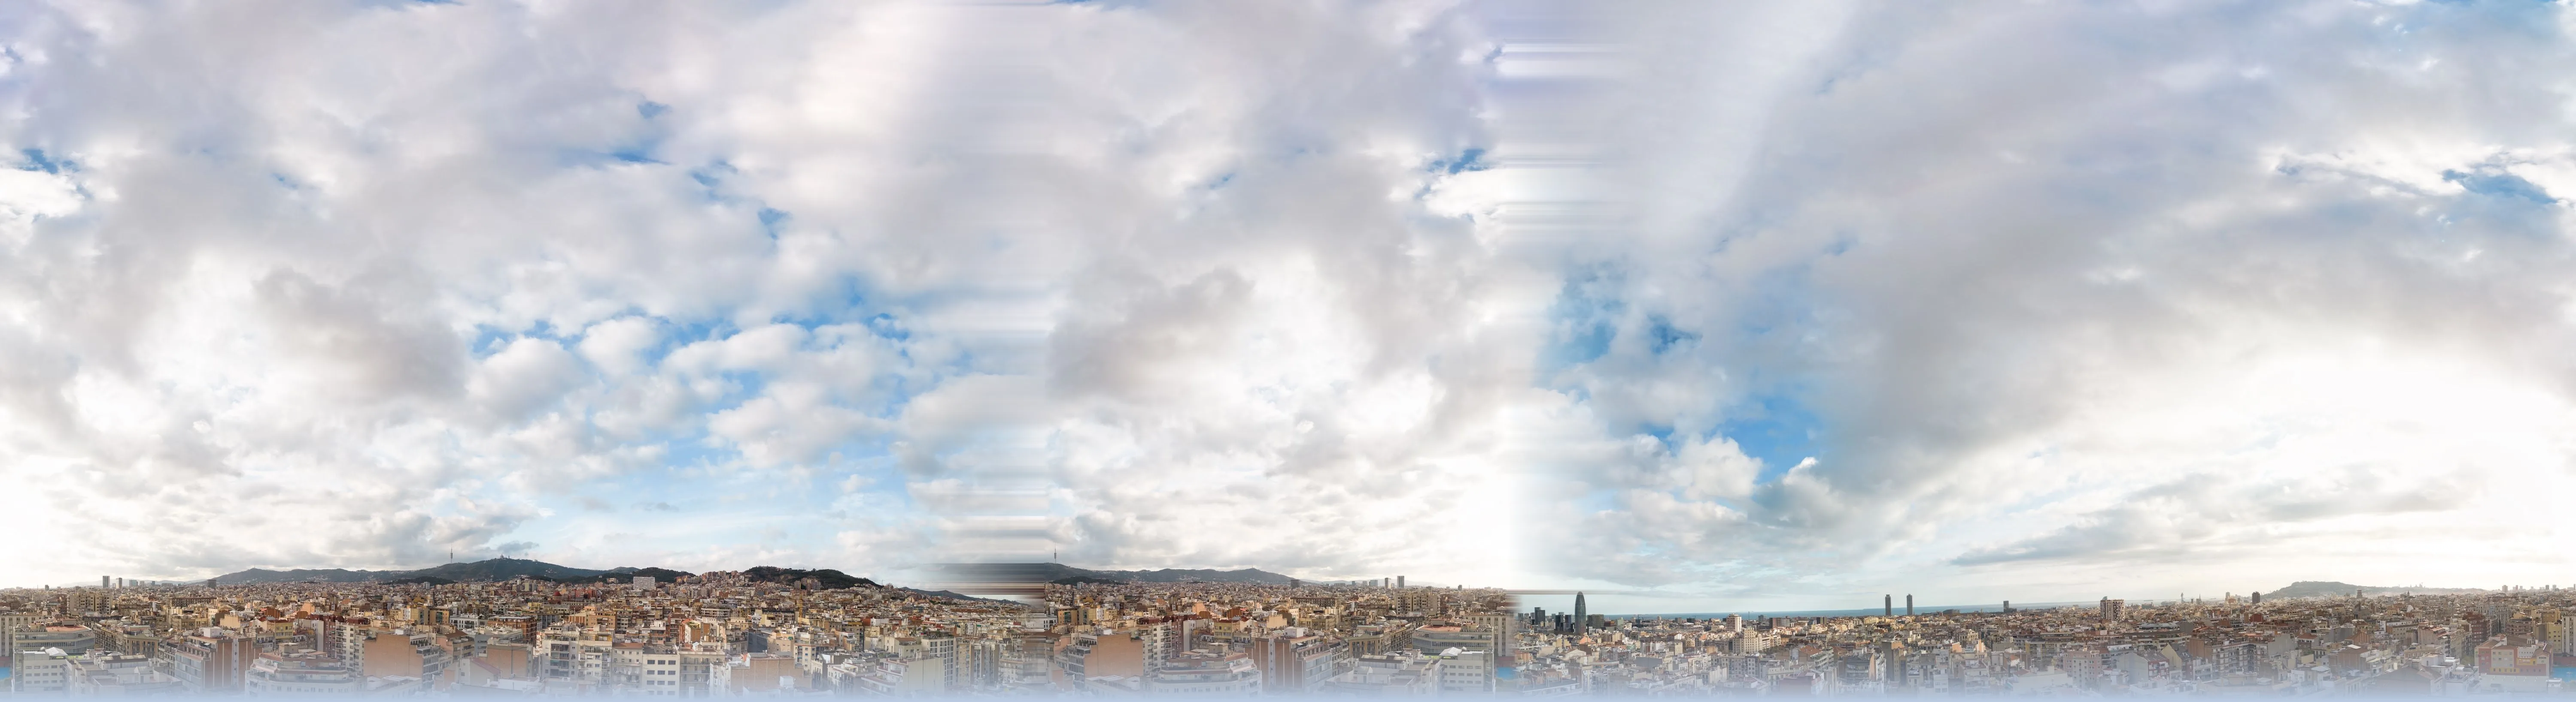
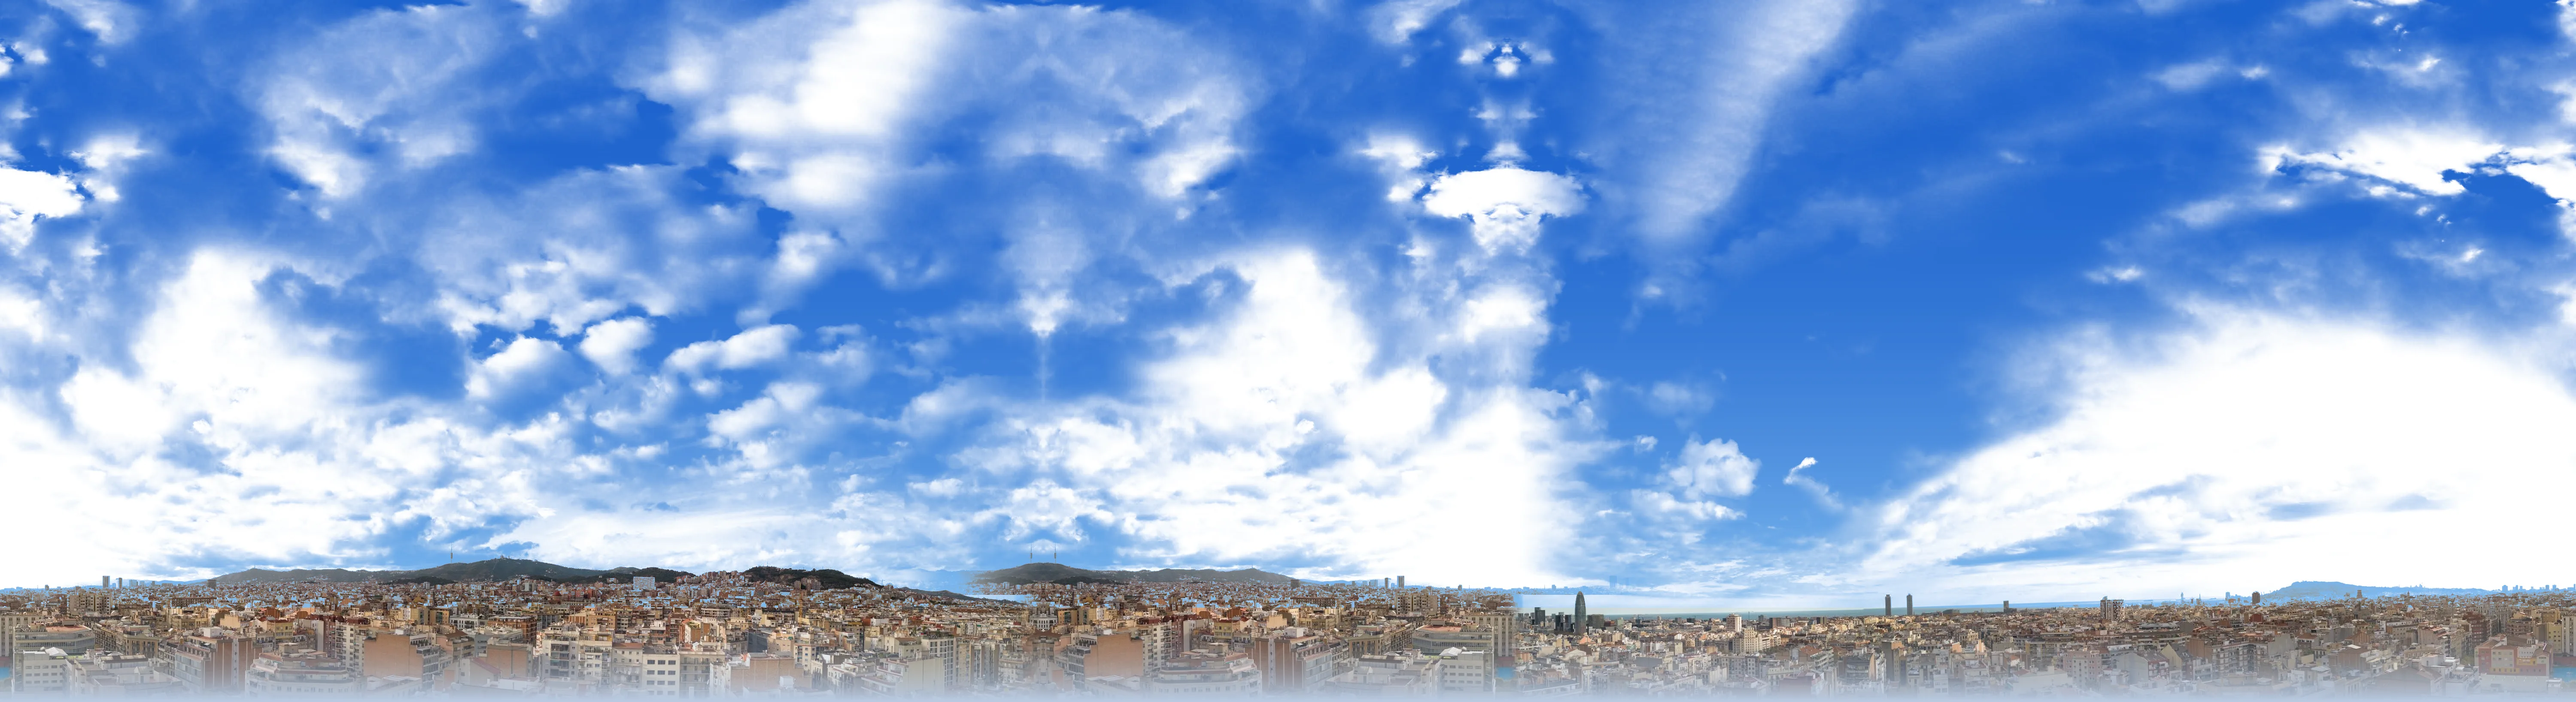
Cielo despejado (recoloreado del panorama) y 8 buzones de Correos escaneados en las aceras
- prepare-panorama: remapeo del cielo a azul con nubes blancas, sin tocar la silueta de la ciudad; arreglo de rayas en el parche
- Mailbox: atlas horneado del escaneo (bake-letterbox), geometría de 2 cajas, collider de cobertura; colisión del servidor regenerada

diff --git a/src/game/world/Mailbox.ts b/src/game/world/Mailbox.ts
@@ -1,0 +1,84 @@
+import { assetUrl } from "../assets";
+import type { Frame, MeshBatch, P3 } from "./MeshBatch";
+
+/**
+ * Buzón de Correos de Barcelona. Procede de un escaneo fotogramétrico (1 M de triángulos) que se hornea con
+ * scripts/bake-letterbox.mjs a un atlas de color (4 caras + tapa) y a las medidas del zócalo y del cuerpo;
+ * aquí se genera la geometría (dos cajas) y se proyecta cada cara sobre su trozo del atlas.
+ */
+interface Rect { u0: number; u1: number; v0: number; v1: number }
+export interface MailboxMeta {
+  height: number;
+  plinthHeight: number;
+  footprint: { x0: number; x1: number; y0: number; y1: number };
+  plinth: { x0: number; x1: number; y0: number; y1: number };
+  body: { x0: number; x1: number; y0: number; y1: number };
+  pxm: number;
+  hh: number;
+  atlas: { w: number; h: number };
+  rects: Record<"px" | "nx" | "py" | "ny" | "top", Rect>;
+}
+
+export const MAILBOX_TEXTURE = assetUrl("assets/props/mailbox.webp");
+let meta: MailboxMeta | null = null;
+
+export async function loadMailbox(): Promise<boolean> {
+  try {
+    const res = await fetch(assetUrl("assets/props/mailbox.json"));
+    if (!res.ok || (res.headers.get("content-type") ?? "").includes("text/html")) throw new Error(`HTTP ${res.status}`);
+    meta = (await res.json()) as MailboxMeta;
+    return true;
+  } catch (e) {
+    console.warn("[Buzón] Sin mailbox.json: se omiten los buzones.", e);
+    meta = null;
+    return false;
+  }
+}
+export const hasMailbox = (): boolean => meta !== null;
+export const mailboxSize = (): { sx: number; sy: number; sz: number } => {
+  const m = meta!;
+  return { sx: m.footprint.x1 - m.footprint.x0, sy: m.height, sz: m.footprint.y1 - m.footprint.y0 };
+};
+
+/**
+ * Añade un buzón al lote en el Frame `f` (el origen del Frame es el centro del cuerpo; w = hacia la calle).
+ * La cara grande con el logo (+X del escaneo) mira hacia fuera (calle).
+ */
+export function addMailbox(batch: MeshBatch, f: Frame): void {
+  const m = meta!;
+  const W = m.atlas.w, Ht = m.atlas.h, px = m.pxm, H = m.height;
+  const cx = (m.body.x0 + m.body.x1) / 2, cy = (m.body.y0 + m.body.y1) / 2;
+  const { x0: hx0, x1: hx1, y0: hy0, y1: hy1 } = m.footprint;
+  const vOf = (y: number): number => 1 - ((H - y) * px) / Ht; // y = altura sobre la acera
+  // escaneo (a = x, b = y, z = altura) → Frame local (w = x - cx, u = y - cy)
+  const P = (a: number, b: number, y: number): P3 => f.pt(b - cy, y, a - cx);
+  const nW: P3 = [f.nx, 0, f.nz], nU: P3 = [f.ux, 0, f.uz];
+  const neg = (n: P3): P3 => [-n[0], -n[1], -n[2]];
+  const white: [number, number, number, number] = [1, 1, 1, 1];
+
+  const box = (b: { x0: number; x1: number; y0: number; y1: number }, yb: number, yt: number): void => {
+    const uOf = (rect: Rect, h: number): number => rect.u0 + (h * px) / W;
+    // +X (hacia la calle): derecha = +Y
+    batch.addQuad([P(b.x1, b.y0, yb), P(b.x1, b.y1, yb), P(b.x1, b.y1, yt), P(b.x1, b.y0, yt)], nW, [[uOf(m.rects.px, b.y0 - hy0), vOf(yb)], [uOf(m.rects.px, b.y1 - hy0), vOf(yb)], [uOf(m.rects.px, b.y1 - hy0), vOf(yt)], [uOf(m.rects.px, b.y0 - hy0), vOf(yt)]], white);
+    // -X: derecha = -Y
+    batch.addQuad([P(b.x0, b.y1, yb), P(b.x0, b.y0, yb), P(b.x0, b.y0, yt), P(b.x0, b.y1, yt)], neg(nW), [[uOf(m.rects.nx, hy1 - b.y1), vOf(yb)], [uOf(m.rects.nx, hy1 - b.y0), vOf(yb)], [uOf(m.rects.nx, hy1 - b.y0), vOf(yt)], [uOf(m.rects.nx, hy1 - b.y1), vOf(yt)]], white);
+    // +Y: derecha = -X
+    batch.addQuad([P(b.x1, b.y1, yb), P(b.x0, b.y1, yb), P(b.x0, b.y1, yt), P(b.x1, b.y1, yt)], nU, [[uOf(m.rects.py, hx1 - b.x1), vOf(yb)], [uOf(m.rects.py, hx1 - b.x0), vOf(yb)], [uOf(m.rects.py, hx1 - b.x0), vOf(yt)], [uOf(m.rects.py, hx1 - b.x1), vOf(yt)]], white);
+    // -Y: derecha = +X
+    batch.addQuad([P(b.x0, b.y0, yb), P(b.x1, b.y0, yb), P(b.x1, b.y0, yt), P(b.x0, b.y0, yt)], neg(nU), [[uOf(m.rects.ny, b.x0 - hx0), vOf(yb)], [uOf(m.rects.ny, b.x1 - hx0), vOf(yb)], [uOf(m.rects.ny, b.x1 - hx0), vOf(yt)], [uOf(m.rects.ny, b.x0 - hx0), vOf(yt)]], white);
+  };
+  box(m.plinth, 0, m.plinthHeight);
+  box(m.body, m.plinthHeight, H);
+  // tapa (vista desde arriba: derecha = +X, arriba de la imagen = +Y)
+  const t = m.rects.top, vTop = (y: number): number => 1 - (m.hh + (hy1 - y) * px) / Ht, uTop = (x: number): number => t.u0 + ((x - hx0) * px) / W;
+  const b = m.body;
+  batch.addQuad([P(b.x0, b.y0, H), P(b.x1, b.y0, H), P(b.x1, b.y1, H), P(b.x0, b.y1, H)], [0, 1, 0], [[uTop(b.x0), vTop(b.y0)], [uTop(b.x1), vTop(b.y0)], [uTop(b.x1), vTop(b.y1)], [uTop(b.x0), vTop(b.y1)]], white);
+  // el zócalo asoma por encima del cuerpo: su cara superior (anillo) también se dibuja
+  const p = m.plinth, yp = m.plinthHeight;
+  const strip = (a: [number, number], c: [number, number], d: [number, number], e: [number, number]): void =>
+    batch.addQuad([P(a[0], a[1], yp), P(c[0], c[1], yp), P(d[0], d[1], yp), P(e[0], e[1], yp)], [0, 1, 0], [a, c, d, e].map(([x, y]) => [uTop(x), vTop(y)] as [number, number]), white);
+  strip([p.x0, p.y0], [p.x1, p.y0], [p.x1, b.y0], [p.x0, b.y0]);
+  strip([p.x0, b.y1], [p.x1, b.y1], [p.x1, p.y1], [p.x0, p.y1]);
+  strip([p.x0, b.y0], [b.x0, b.y0], [b.x0, b.y1], [p.x0, b.y1]);
+  strip([b.x1, b.y0], [p.x1, b.y0], [p.x1, b.y1], [b.x1, b.y1]);
+}

diff --git a/src/game/world/mapLayout.ts b/src/game/world/mapLayout.ts
@@ -172,7 +172,7 @@ for (const sgn of [-1, 1]) {
 
 // ---------------------------------------------------------------- mobiliario y vehículos
 
-export type PropKind = "tree" | "lamp" | "bench" | "bin" | "bollard" | "trafficLight" | "sign" | "planter" | "car" | "van" | "moto" | "terrace";
+export type PropKind = "tree" | "lamp" | "bench" | "bin" | "bollard" | "trafficLight" | "sign" | "planter" | "car" | "van" | "moto" | "terrace" | "mailbox";
 
 export interface Prop {
   kind: PropKind;
@@ -289,6 +289,28 @@ for (const run of streetRuns) {
       const px = x + (run.axis === "x" ? jitter : 0);
       const pz = z + (run.axis === "z" ? jitter : 0);
       addProp(r < 0.12 ? "van" : r < 0.24 ? "moto" : "car", px, pz, ux, uz, true);
+    }
+  }
+}
+
+// Buzones de Correos: 8 repartidos por las aceras de la calle que rodea la basílica (dos por lado), sin tocar el generador aleatorio.
+// Posición determinista: se busca, junto a la fachada, el primer hueco libre a partir de cierto punto del tramo.
+{
+  const wanted = new Map<string, number[]>([["side0", [0.3, 0.72]], ["side1", [0.3, 0.72]], ["side2", [0.3, 0.72]], ["side3", [0.3, 0.72]]]);
+  for (const chain of outerChains) {
+    for (const frac of wanted.get(chain.id) ?? []) {
+      // el tramo recto más largo de la cadena que da a la calle del anillo
+      const seg = chain.segs.filter((s) => s.kind === "straight").sort((a, b) => b.len - a.len)[0];
+      if (!seg) continue;
+      for (let k = 0; k < 40; k++) {
+        const t = seg.len * frac + k * 0.8;
+        if (t > seg.len - 4) break;
+        const x = seg.a.x + seg.ux * t + seg.nx * 1.7, z = seg.a.z + seg.uz * t + seg.nz * 1.7;
+        if (nearCrosswalk(x, z, 3)) continue;
+        if (props.some((p) => Math.hypot(p.x - x, p.z - z) < 2.4)) continue;
+        addProp("mailbox", x, z, seg.ux, seg.uz, true, 0);
+        break;
+      }
     }
   }
 }

diff --git a/src/game/world/Materials.ts b/src/game/world/Materials.ts
@@ -1,5 +1,6 @@
 import { Color3, DynamicTexture, PBRMaterial, Scene, Texture } from "@babylonjs/core";
 import { BATLLO_TEXTURES, BATLLO_VARIANTS, batlloKey } from "./BatlloFacade";
+import { MAILBOX_TEXTURE } from "./Mailbox";
 
 /**
  * Materiales PBR con texturas 100 % procedurales (sin descargas externas).
@@ -28,7 +29,8 @@ export type MatKey =
   | "batllo0"
   | "batllo1"
   | "batllo2"
-  | "batllo3";
+  | "batllo3"
+  | "mailbox";
 
 /** Nombres de comercios y números de portal del atlas de rótulos (la disposición debe coincidir con FacadeModules). */
 export const SIGN_NAMES = [
@@ -399,7 +401,14 @@ export function createMaterials(scene: Scene): MaterialSet {
     batllo1: pbr(scene, "batllo1", { roughness: 0.7 }),
     batllo2: pbr(scene, "batllo2", { roughness: 0.7 }),
     batllo3: pbr(scene, "batllo3", { roughness: 0.7 }),
+    mailbox: pbr(scene, "mailbox", { roughness: 0.55, metallic: 0.15 }),
   } satisfies Record<MatKey, PBRMaterial>;
+
+  // Buzón de Correos: atlas horneado del escaneo (4 caras + tapa).
+  const mbTex = new Texture(MAILBOX_TEXTURE, scene, false, true, Texture.TRILINEAR_SAMPLINGMODE);
+  mbTex.anisotropicFilteringLevel = 8;
+  mbTex.wrapU = mbTex.wrapV = Texture.CLAMP_ADDRESSMODE;
+  mat.mailbox.albedoTexture = mbTex;
 
   // Fachadas de la Casa Batlló: textura horneada con silueta alfa (4 paletas). Se cargan como imágenes normales.
   for (let i = 0; i < BATLLO_VARIANTS; i++) {
@@ -451,6 +460,7 @@ export function createMaterials(scene: Scene): MaterialSet {
     batllo1: 1,
     batllo2: 1,
     batllo3: 1,
+    mailbox: 1,
   };
 
   const panot = pbr(scene, "panot", { tex: panotTex, roughness: 0.82 });

diff --git a/src/game/world/BarcelonaMap.ts b/src/game/world/BarcelonaMap.ts
@@ -9,6 +9,7 @@ import { buildHeightfieldShadowProxy } from "./SagradaShadowProxy";
 import { createWetMaterials, type WetSet } from "./WetSurfaces";
 import { buildPalms, type PalmSet } from "./PalmTrees";
 import { loadBatlloRelief } from "./BatlloFacade";
+import { loadMailbox } from "./Mailbox";
 import { loadSagradaFamilia, type SagradaResult } from "./SagradaFamiliaLoader";
 import { buildProps } from "./StreetFurniture";
 import { loadVehicles, type VehicleLibrary } from "./VehicleSet";
@@ -65,6 +66,7 @@ export class BarcelonaMap {
 
     await tick("Levantando edificios del Eixample…");
     await loadBatlloRelief();
+    await loadMailbox();
     const specs = planBuildings(buildingChains, 1714);
     pickBatlloHouses(specs);
     const bset = new BatchSet(mats.tile);

diff --git a/src/game/world/StreetFurniture.ts b/src/game/world/StreetFurniture.ts
@@ -1,3 +1,4 @@
+import { addMailbox, hasMailbox, mailboxSize } from "./Mailbox";
 import { Rng } from "../util/rng";
 import { BatchSet, F, Frame, type RGBA } from "./MeshBatch";
 import type { CollisionManager } from "./CollisionManager";
@@ -256,6 +257,13 @@ export function buildProps(
         break;
       case "planter":
         col = planter(set, f, rng, p.x, p.z);
+        break;
+      case "mailbox":
+        if (hasMailbox()) {
+          addMailbox(set.get(CHUNK, "mailbox"), f);
+          const sz = mailboxSize();
+          col = { sx: sz.sx, sy: sz.sy, sz: sz.sz };
+        }
         break;
     }
     if (col) {

diff --git a/README.md b/README.md
@@ -113,8 +113,12 @@ por casa (`src/game/world/BatlloFacade.ts`) donde los balcones sobresalen de ver
 
 El panorama aportado (`assets-src/panorama/sf_0.jpeg`, foto esférica de Barcelona hecha con dron sobre la Sagrada Família, 6000×3000) se procesa con `npm run prepare:panorama`:
 - **Fondo del menú:** franja con la basílica y el horizonte que se desplaza despacio (bucle continuo de 360°); en pausa se ve la escena.
-- **Cielo con foto real** (casilla «Cielo con foto real» del menú, activada por defecto): cúpula con nubes, la silueta de Barcelona, el Tibidabo, la torre Glòries y el mar. La basílica de la foto se ha retirado con un parche de ciudad/cielo
+- **Cielo con foto real** (casilla «Cielo con foto real» del menú, activada por defecto), recoloreado a **día despejado** (azul con nubes blancas; el original era nublado): cúpula con nubes, la silueta de Barcelona, el Tibidabo, la torre Glòries y el mar. La basílica de la foto se ha retirado con un parche de ciudad/cielo
   vecinos, y bajo el horizonte se funde con la niebla. Sigue calculándose la iluminación con el cielo procedural. Calidad 4096 px (Bajo/Medio) o 6000 px (Alto). Limitación: con el zoom de 8× del francotirador la foto se ve blanda (≈ 117 px para 7°).
+
+## Buzones de Correos
+
+8 buzones (escaneo real, `scripts/bake-letterbox.mjs`) repartidos por las aceras de la calle que rodea la basílica (`mapLayout.ts`, `Mailbox.ts`): geometría de 2 cajas con el atlas horneado (graffitis y pegatinas incluidos) y collider de cobertura (0,5 × 1,27 × 0,5 m).
 
 ## Créditos de datos
 

diff --git a/CREDITOS.md b/CREDITOS.md
@@ -10,3 +10,4 @@
 - Palmera, rifle M1A y pack de coches: modelos aportados por el usuario (origen y licencia no documentados aquí).
 - **Fachada de la Casa Batlló (4 casas del Eixample):** modelo `casa_batllo_-_antoni_gaudi_-_barcelona.glb` aportado por el usuario (el material se llama «tripo_material…», lo que sugiere un modelo generado con IA; autor y licencia desconocidos, verificar antes de publicar). Se hornea a una elevación frontal + mapa de relieve con `scripts/bake-batllo.mjs`.
 - **Panorama 360° de Barcelona/Sagrada Família (menú y cielo):** modelo/escena `barcelona sagrada familia.glb` (esfera con foto de dron, procedente de Sketchfab) aportado por el usuario; autor y licencia desconocidos, verificar antes de publicar.
+- **Buzón de Correos (8 repartidos por las aceras):** escaneo fotogramétrico `correos_letterbox_barcelona_catalunya.glb` aportado por el usuario (Sketchfab); autor y licencia desconocidos, verificar antes de publicar. Se hornea a un atlas de color con `scripts/bake-letterbox.mjs` (el escaneo incluye un trozo de acera real, no utilizado).
